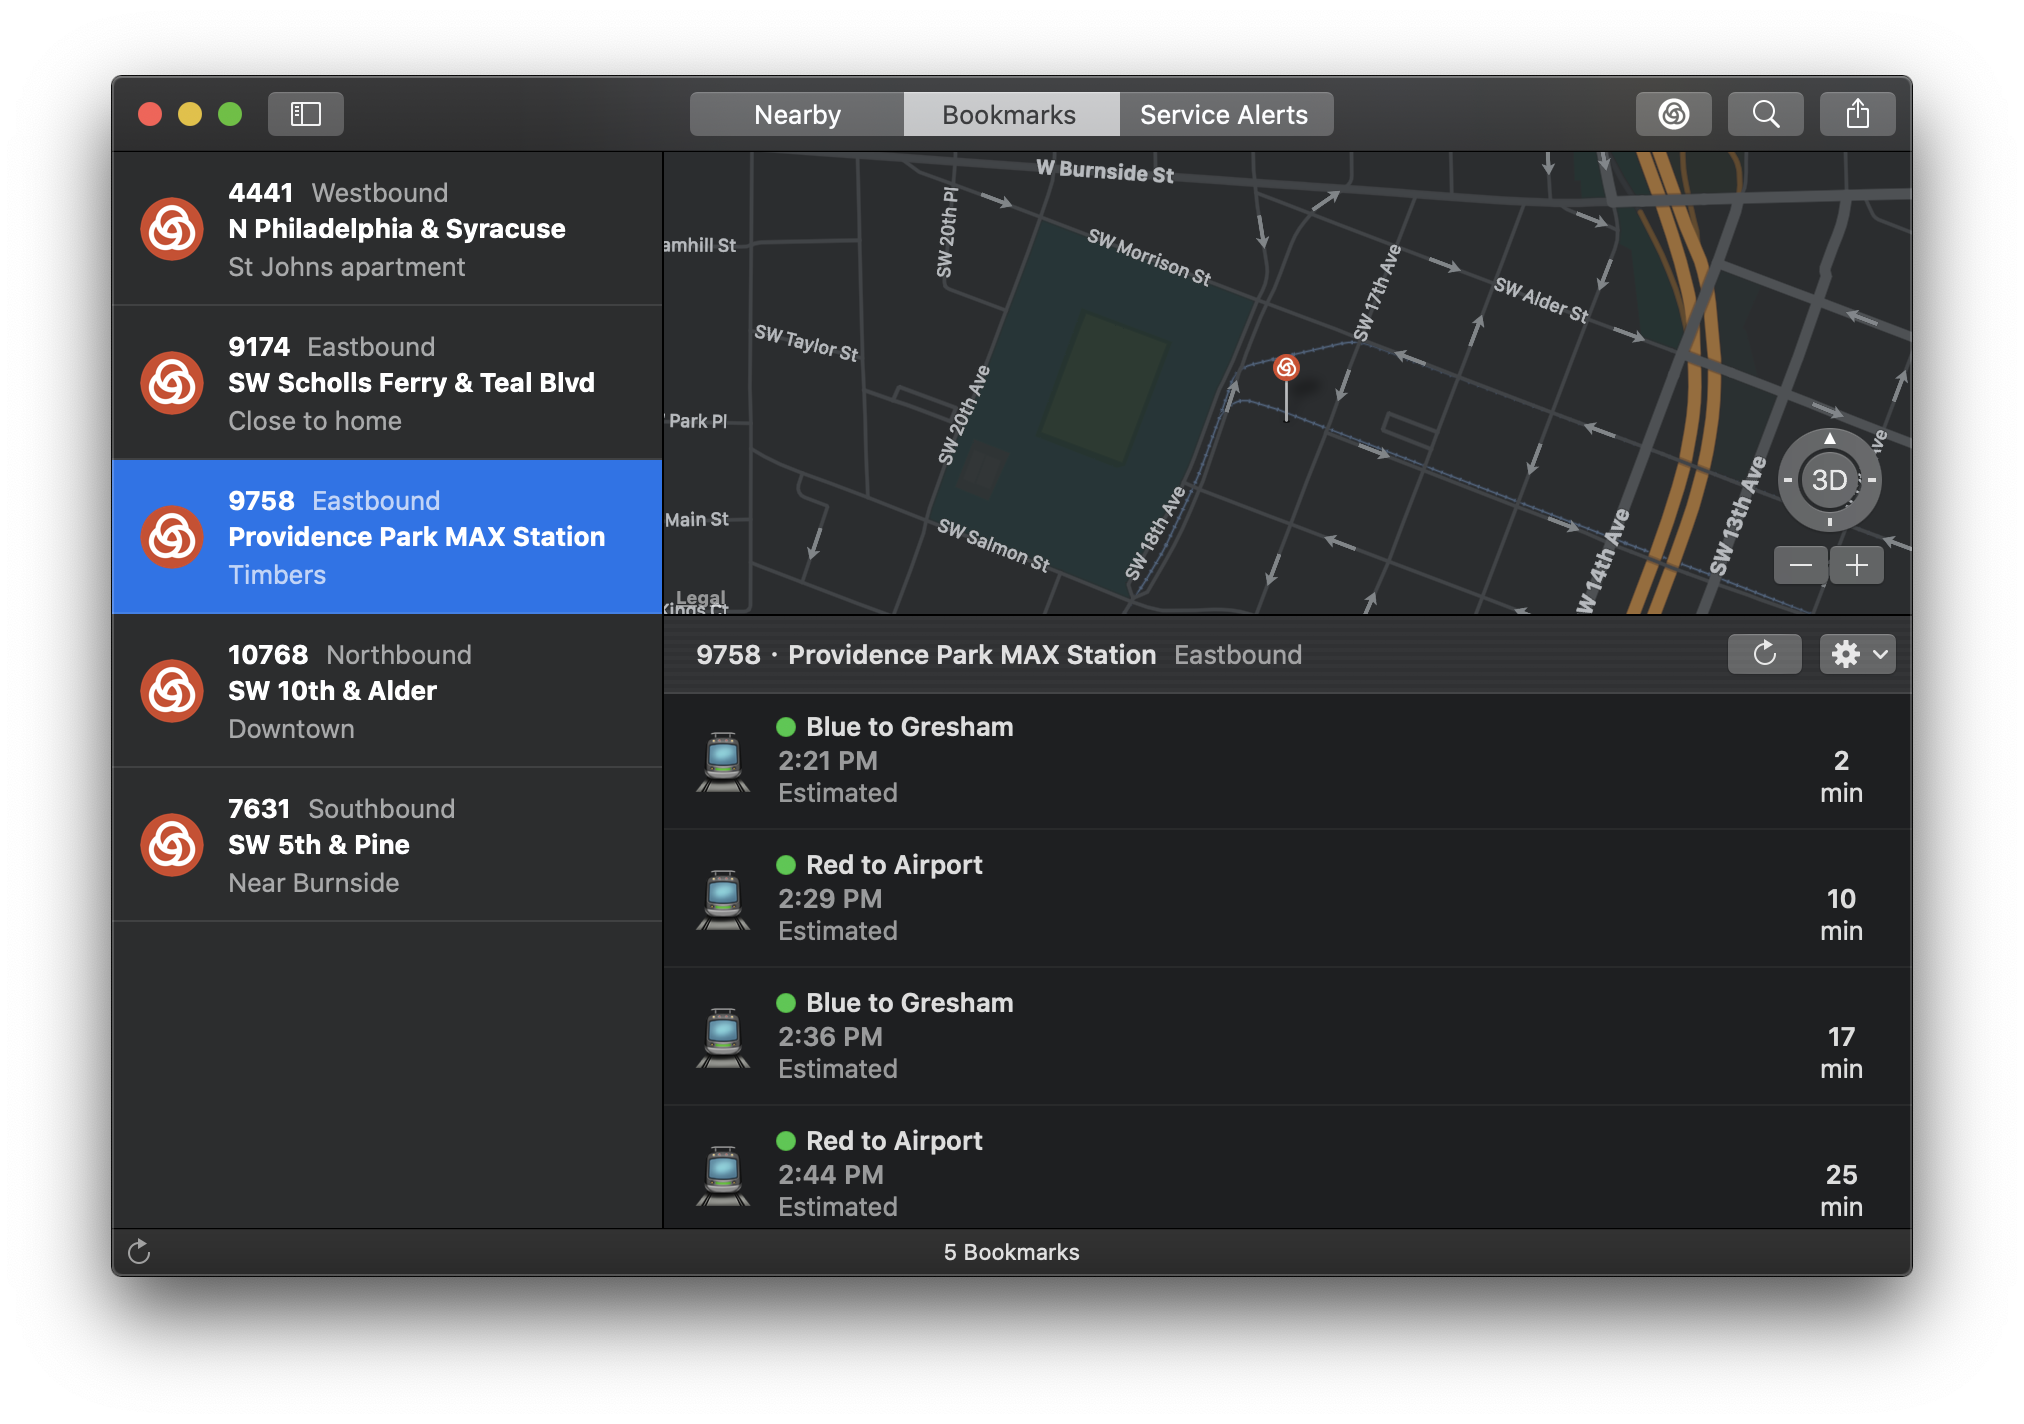
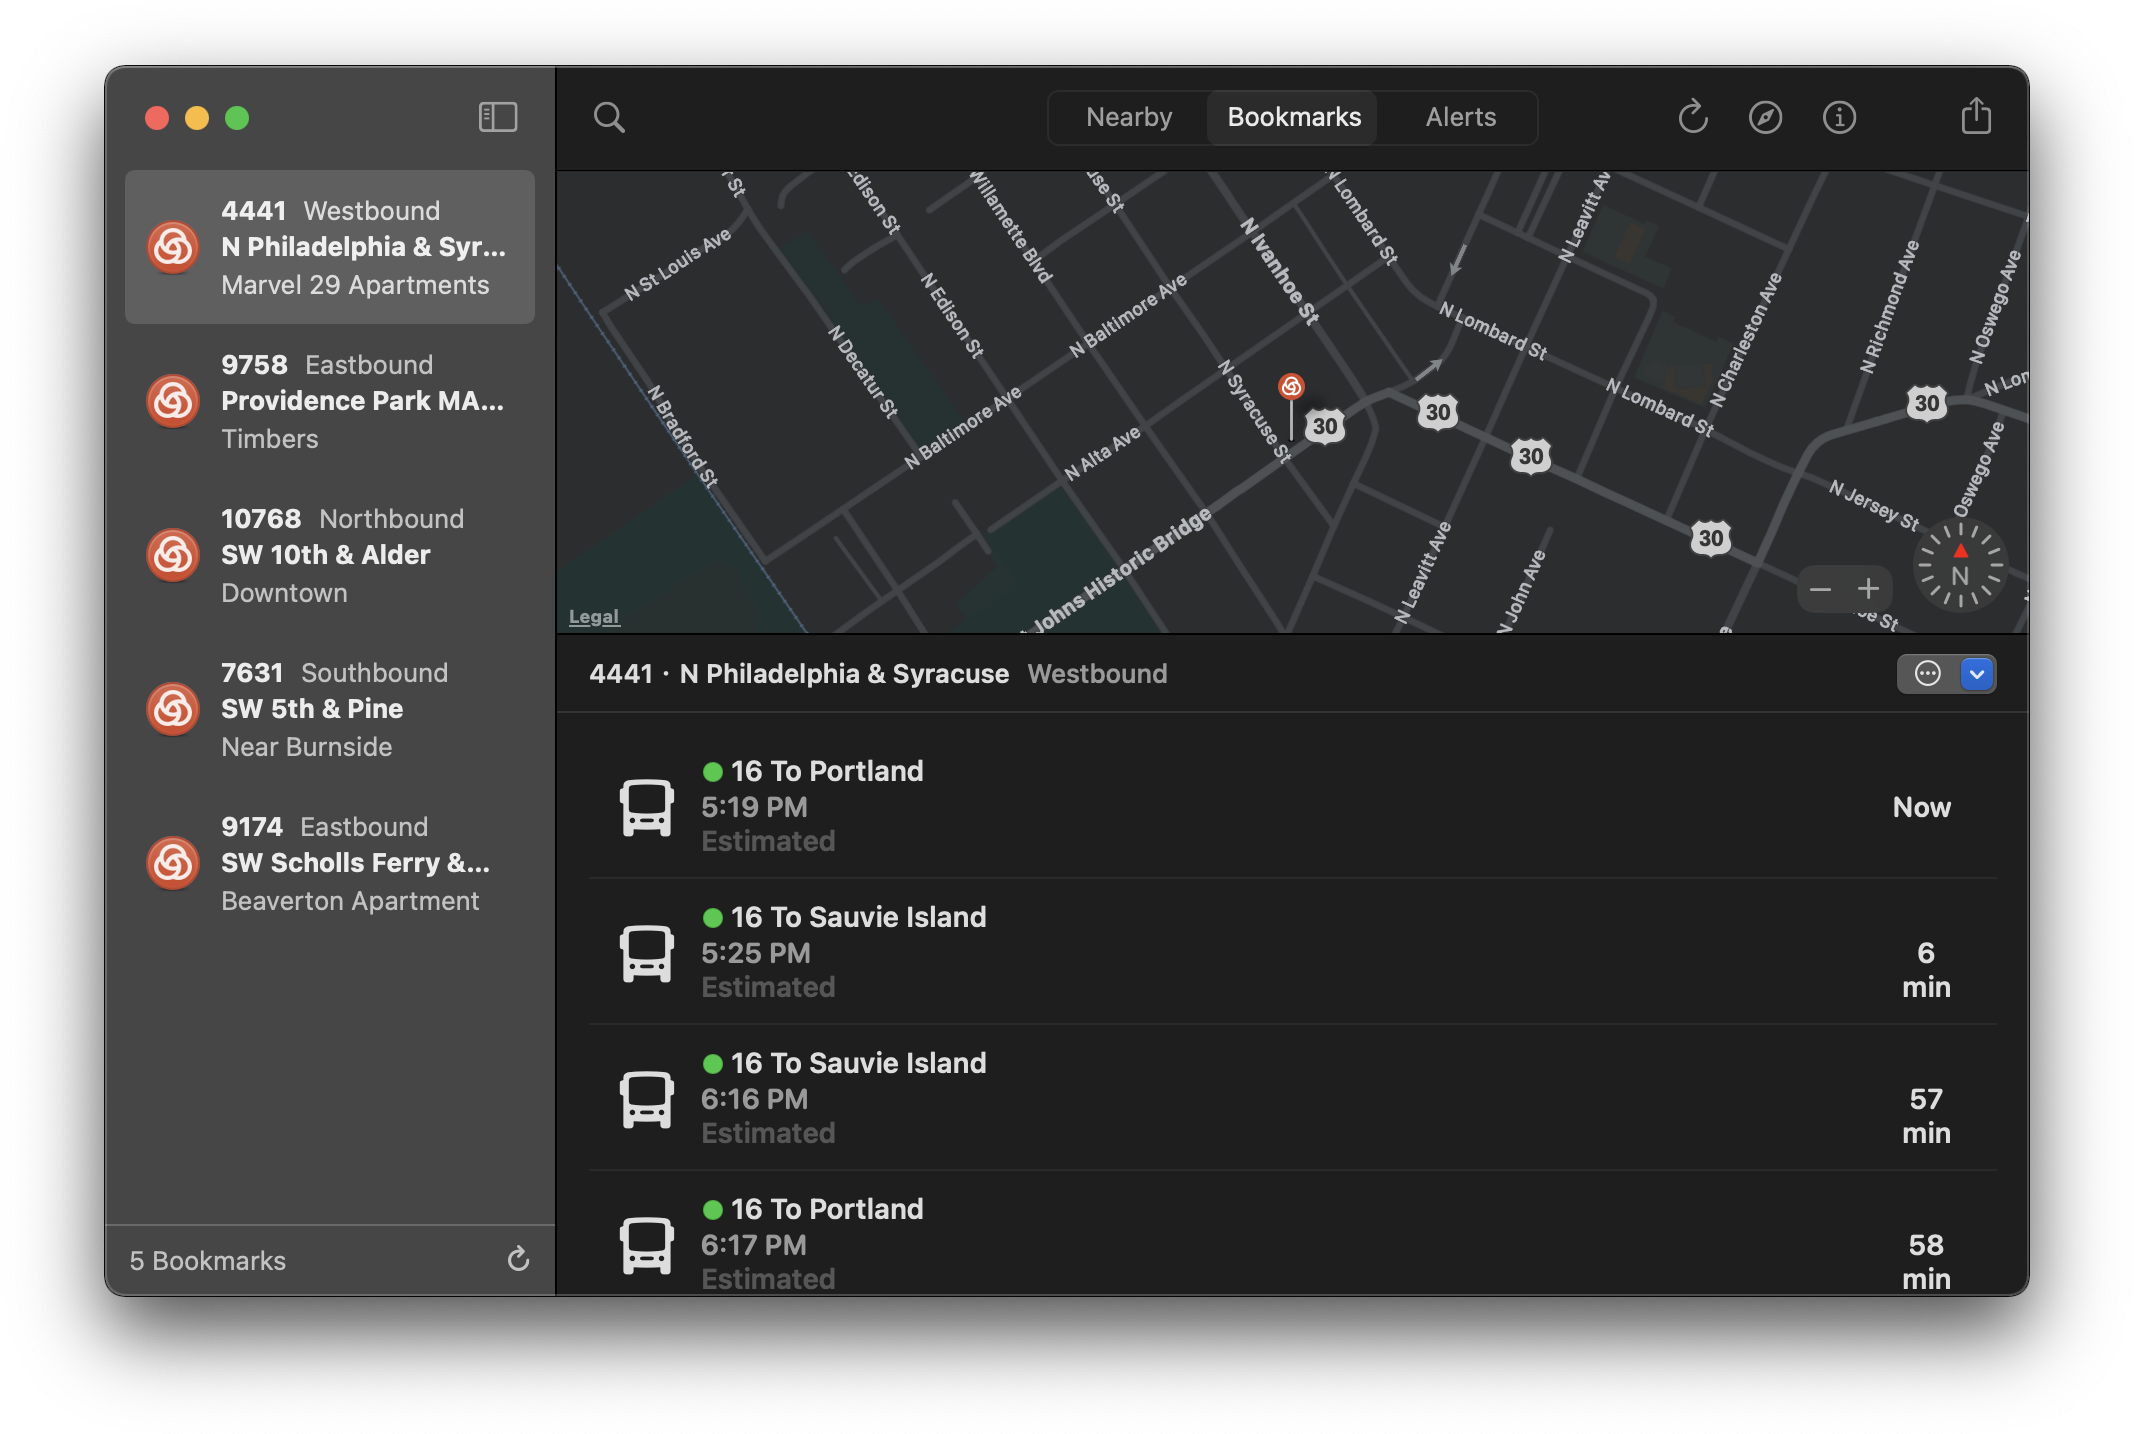
Updating PDX Transit for macOS with Big Sur screenshots

diff --git a/pdxtransit/macos/index.html b/pdxtransit/macos/index.html
@@ -82,7 +82,7 @@
 						style="max-width: 100%;"
 						alt="PDX Transit Logo Splash">
 					<h3><span class="text-muted">for Macintosh</span></h3>
-					<p>PDX Transit for macOS is a counterpart for PDX Transit on iOS and watchOS. It conviniently provides you with nearby transit stops, arrival times, and service alerts using TriMet's open data web API.</p>
+					<p><b>Now optimized for macOS Big Sur and Mac computers with Apple Silicon</b>, PDX Transit for macOS is the counterpart for PDX Transit on iOS and watchOS. It conviniently provides you with nearby transit stops, arrival times, and service alerts using TriMet's open data web API.</p>
 					<p><a href="https://itunes.apple.com/us/app/pdx-transit/id1446232545?mt=12"><img src="../../images/Download_on_the_Mac_App_Store_Badge_US.svg" alt="Download on the Mac App Store"></a></p>
 				</div>
 			</div>
@@ -136,25 +136,6 @@
 			
 			<hr>
 			
-			<div id="bigsur" class="row align-items-center">
-				<div class="col-md">
-					<img srcset="../images/pdxt_mac_bigsur.png, ../images/pdxt_mac_bigsur@2x.png 2x"
-						src="../images/pdxt_mac_bigsur@2x.png" 
-						class="mx-auto d-block" 
-						style="max-width: 100%;"  
-						alt="PDX Transit macOS Big Sur Preview">
-				</div>
-			</div>
-			
-			<div class="row">
-				<div class="col-md" style="text-align: center;">
-					<h4 class="card-text">PDX Transit for macOS Big Sur preview</h4>
-					<p class="text-muted">PDX Transit is currently being updated to adopt the bold new look of macOS Big Sur. With a new full-height sidebar and adoption of SF Symbols throughout the app, PDX Transit for macOS will feel right at home in Big Sur. Look for the free update on the Mac App Store this fall.</p>
-				</div>
-			</div>
-			
-			<hr>
-			
 			<div class="row align-items-center">
 				<div class="col-md">
 					<img srcset="images/pdxt_mbp_touchbar.png, images/pdxt_mbp_touchbar@2x.png 2x"
@@ -171,6 +152,8 @@
 					<p class="text-muted">If you're running PDX Transit on a MacBook Pro with Touch Bar, you'll notice that certain actions to navigate and interact with the app are displayed in the Touch Bar.</p>
 				</div>
 			</div>
+			
+			<hr>
 			
 			<div class="row align-items-center">
 				<div class="col-md">
